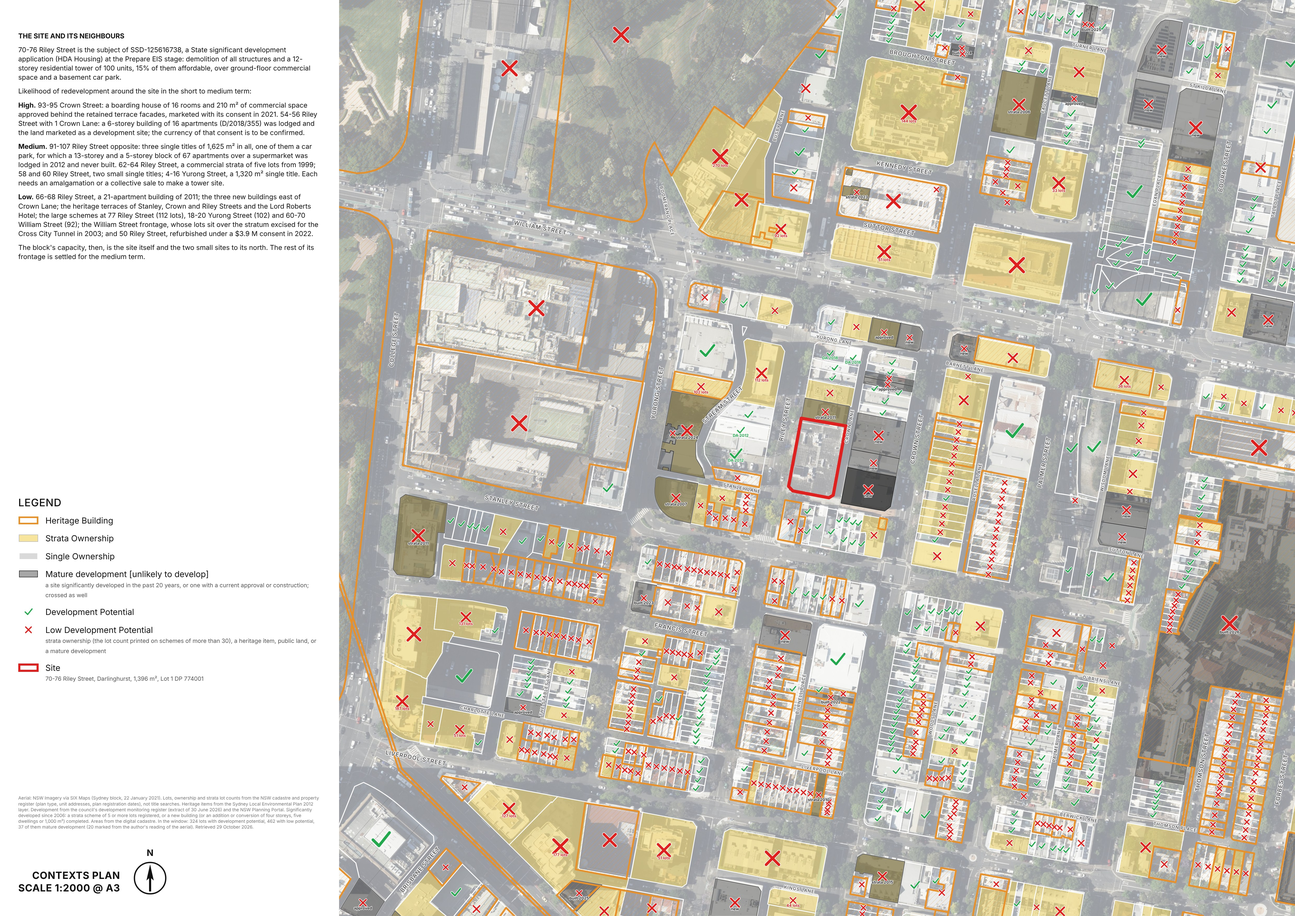
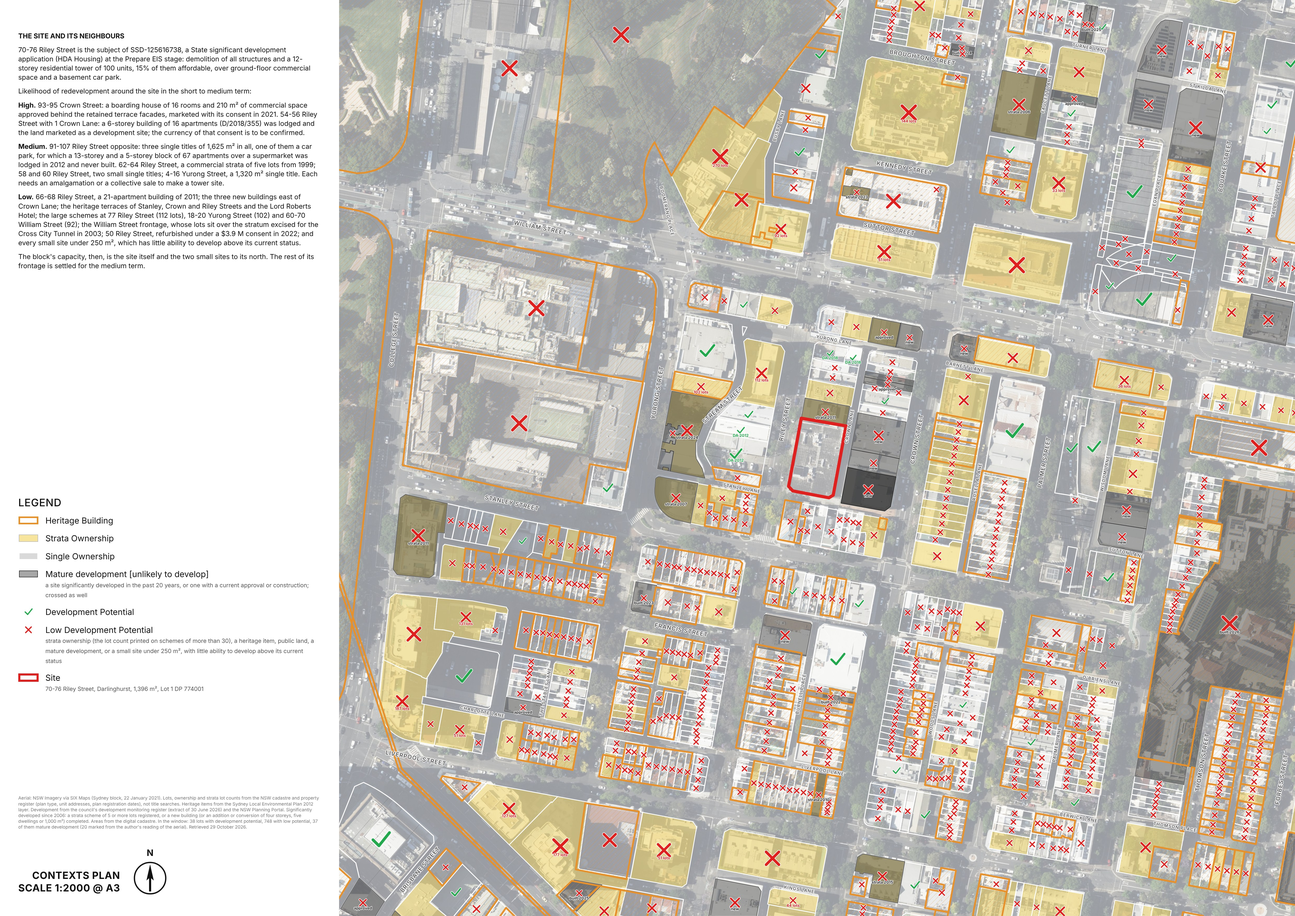
Capacity study: a small site has little ability to develop above its current status
A single title under 250 m² (smallSite) is crossed as low development
potential: a terrace lot cannot be developed on its own, only assembled.
The author's overrides still win, so a small lot with a lodged scheme
keeps its tick. The legend, the README and the Riley Street notes say so.

Claude-Session: https://claude.ai/code/session_01VNRPanhp62ev3Z3T48NYcJ

diff --git a/examples/capacity_study/70-76-riley-street-darlinghurst.notes.html b/examples/capacity_study/70-76-riley-street-darlinghurst.notes.html
@@ -3,5 +3,5 @@
 <p>Likelihood of redevelopment around the site in the short to medium term:</p>
 <p><b>High.</b> 93-95 Crown Street: a boarding house of 16 rooms and 210 m² of commercial space approved behind the retained terrace facades, marketed with its consent in 2021. 54-56 Riley Street with 1 Crown Lane: a 6-storey building of 16 apartments (D/2018/355) was lodged and the land marketed as a development site; the currency of that consent is to be confirmed.</p>
 <p><b>Medium.</b> 91-107 Riley Street opposite: three single titles of 1,625 m² in all, one of them a car park, for which a 13-storey and a 5-storey block of 67 apartments over a supermarket was lodged in 2012 and never built. 62-64 Riley Street, a commercial strata of five lots from 1999; 58 and 60 Riley Street, two small single titles; 4-16 Yurong Street, a 1,320 m² single title. Each needs an amalgamation or a collective sale to make a tower site.</p>
-<p><b>Low.</b> 66-68 Riley Street, a 21-apartment building of 2011; the three new buildings east of Crown Lane; the heritage terraces of Stanley, Crown and Riley Streets and the Lord Roberts Hotel; the large schemes at 77 Riley Street (112 lots), 18-20 Yurong Street (102) and 60-70 William Street (92); the William Street frontage, whose lots sit over the stratum excised for the Cross City Tunnel in 2003; and 50 Riley Street, refurbished under a $3.9 M consent in 2022.</p>
+<p><b>Low.</b> 66-68 Riley Street, a 21-apartment building of 2011; the three new buildings east of Crown Lane; the heritage terraces of Stanley, Crown and Riley Streets and the Lord Roberts Hotel; the large schemes at 77 Riley Street (112 lots), 18-20 Yurong Street (102) and 60-70 William Street (92); the William Street frontage, whose lots sit over the stratum excised for the Cross City Tunnel in 2003; 50 Riley Street, refurbished under a $3.9 M consent in 2022; and every small site under 250 m², which has little ability to develop above its current status.</p>
 <p>The block's capacity, then, is the site itself and the two small sites to its north. The rest of its frontage is settled for the medium term.</p>

diff --git a/scripts/capacity_study/render.py b/scripts/capacity_study/render.py
@@ -19,7 +19,7 @@ AW, AH = a['aerial']['pxWidth'], a['aerial']['pxHeight']
 props = a['props']
 site = next(r for r in props.values() if r.get('isSite'))
 meta = a.get('meta', {})
-STRATA_MAX, RECENT_YEARS, SINCE, SMALL_SCHEME = a.get('strataMax', 30), a.get('recentYears', 20), a.get('since', 2006), a.get('smallScheme', 5)
+STRATA_MAX, RECENT_YEARS, SINCE, SMALL_SCHEME, SMALL_SITE = a.get('strataMax', 30), a.get('recentYears', 20), a.get('since', 2006), a.get('smallScheme', 5), a.get('smallSite', 250)
 
 # ---- the sheet: A3 landscape at 300 dpi, the legend panel on the left, the map at 1:2000 to the three other edges
 DPI = 300
@@ -102,6 +102,8 @@ def symbol(r):
     if o == 'potential':
         return 'potential'
     if o in ('none', 'mature') or mature(r) or r['kind'] in ('council', 'state') or r.get('heritageItem') or r['strata']:
+        return 'none'
+    if (r['areaM2'] or 0) < SMALL_SITE:  # a small site has little ability to develop above its current status
         return 'none'
     return 'potential'
 
@@ -237,7 +239,7 @@ legend = [
     (swatch(f'<rect x="3" y="3" width="72" height="26" fill="#d9d9d9" stroke="{WHITE}" stroke-width="4"/>'), 'Single Ownership'),
     (swatch(f'<rect x="4" y="4" width="70" height="24" fill="{DOT}" fill-opacity="0.42" stroke="{DOT}" stroke-width="2"/>'), f'Mature development [unlikely to develop]<br><span class="fine">a site significantly developed in the past {RECENT_YEARS} years, or one with a current approval or construction; crossed as well</span>'),
     (swatch(tick(39, 16, 30, 4.5).replace(f'{4.5 + 4 * U:.1f}', '8')), 'Development Potential'),
-    (swatch(cross(39, 16, 30, 4.5).replace(f'{4.5 + 4 * U:.1f}', '8')), f'Low Development Potential<br><span class="fine">strata ownership (the lot count printed on schemes of more than {STRATA_MAX}), a heritage item, public land, or a mature development</span>'),
+    (swatch(cross(39, 16, 30, 4.5).replace(f'{4.5 + 4 * U:.1f}', '8')), f'Low Development Potential<br><span class="fine">strata ownership (the lot count printed on schemes of more than {STRATA_MAX}), a heritage item, public land, a mature development, or a small site under {SMALL_SITE} m², with little ability to develop above its current status</span>'),
     (swatch(f'<rect x="4" y="4" width="70" height="24" fill="none" stroke="{RED}" stroke-width="8"/>'), f'Site<br><span class="fine">{H.escape(caption)}, {fmt(site["areaM2"])} m², {H.escape(lot_desc)}</span>'),
 ]
 img = a.get('imagery') or {}

diff --git a/scripts/capacity_study/analyse.py b/scripts/capacity_study/analyse.py
@@ -224,6 +224,7 @@ live_das = [dict(r, pt=merc(r['lon'], r['lat'])) for r in da['near']
 STRATA_MAX = b.get('strataMax', 30)       # a scheme above this is taken as too fragmented to assemble
 RECENT_YEARS = b.get('recentYears', 20)   # a site significantly developed within these years is not coming down
 SMALL_SCHEME = b.get('smallScheme', 5)    # a strata scheme under this many lots is not, by itself, a significant development
+SMALL_SITE = b.get('smallSite', 250)      # a site under this many square metres has little ability to develop above its current status
 THIS_YEAR = int((b.get('fetchedAt') or datetime.datetime.now(datetime.UTC).isoformat())[:4])
 SINCE = THIS_YEAR - RECENT_YEARS
 site_pt = (b['centre']['x'], b['centre']['y'])
@@ -299,7 +300,7 @@ site['neighbours'] = [n for n in site['neighbours'] if n['sharedM'] >= 3]
 
 out = {
     'k': K, 'extent': b['extent'], 'centre': b['centre'], 'aerial': b['aerial'], 'imagery': b.get('imagery'), 'controls': b.get('controls'),
-    'meta': b.get('meta', {}), 'fetchedAt': b.get('fetchedAt'), 'strataMax': STRATA_MAX, 'recentYears': RECENT_YEARS, 'since': SINCE, 'smallScheme': SMALL_SCHEME,
+    'meta': b.get('meta', {}), 'fetchedAt': b.get('fetchedAt'), 'strataMax': STRATA_MAX, 'recentYears': RECENT_YEARS, 'since': SINCE, 'smallScheme': SMALL_SCHEME, 'smallSite': SMALL_SITE,
     'props': {str(k): v for k, v in props.items()}, 'lots': lots,
     'heritageItems': [{'name': h[0].get('H_NAME'), 'sig': h[0].get('SIG'), 'rings': h[1]} for h in heritage_items],
     'hca': [{'name': h[0].get('H_NAME'), 'rings': h[1]} for h in hca],

diff --git a/README.md b/README.md
@@ -1565,8 +1565,9 @@ What the sheet reads, all open data (`scripts/capacity_study.ts` fetches,
   approval, construction or live application for a new building; a cross (low
   development potential) on every mature development, on strata ownership
   (the lot count printed under it on a scheme of more than 30 lots), on a
-  heritage item and on public land; a tick (development potential) on every
-  other property. Lane stubs and slivers under 40 m² carry no mark.
+  heritage item, on public land and on a small site under 250 m², which has
+  little ability to develop above its current status; a tick (development
+  potential) on every other property. Lane stubs and slivers under 40 m² carry no mark.
 
 ## How it works
 
